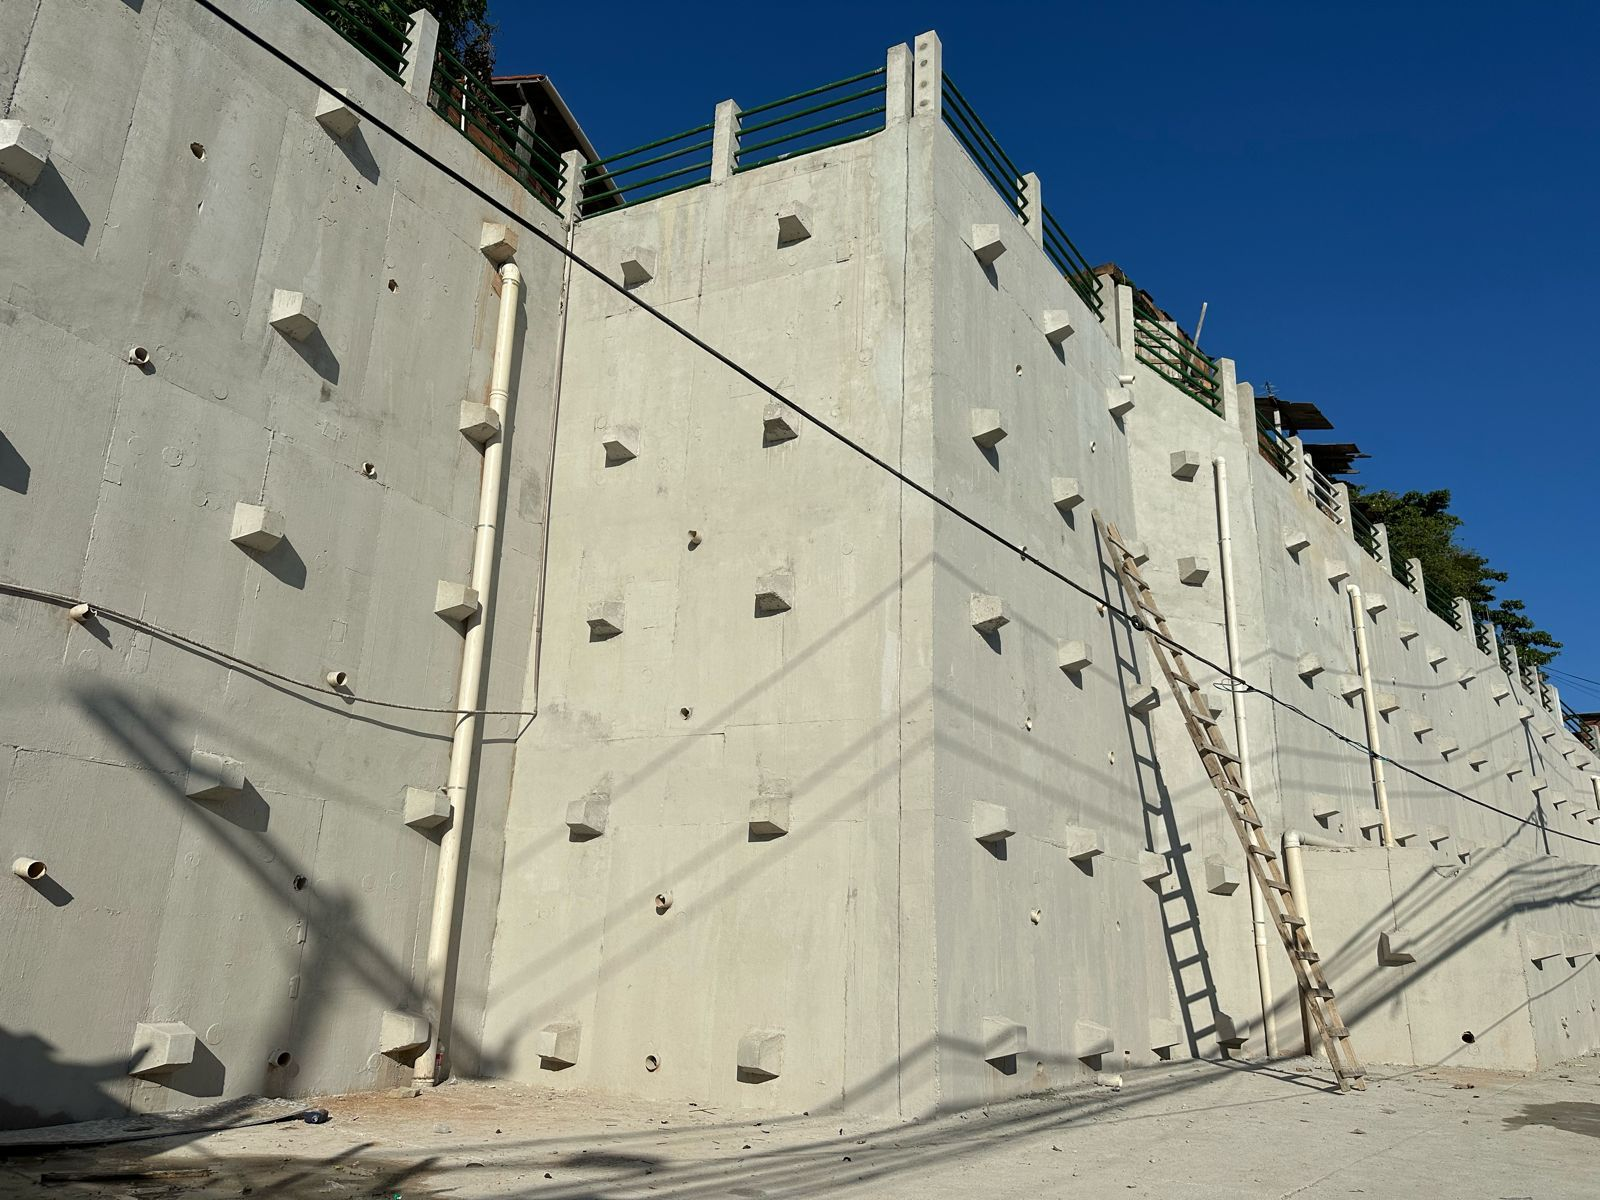
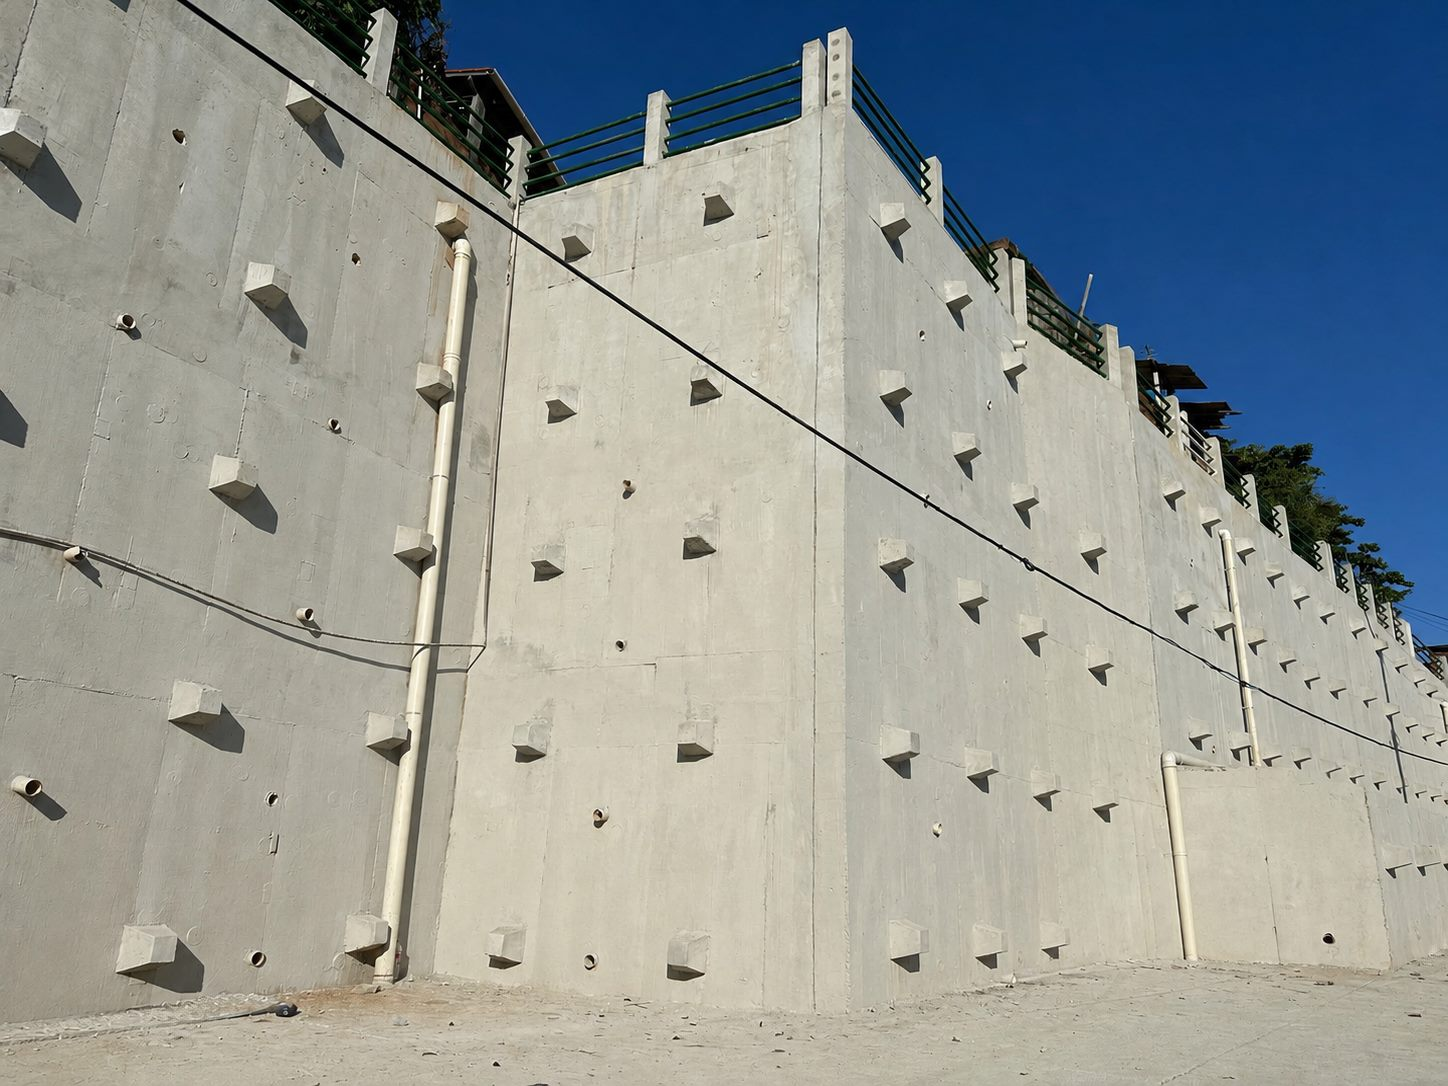
Atualiza imagem de fundo do hero (nova cortina atirantada, JPEG otimizado)
PNG de 2.3MB convertido para JPEG 215KB (1448x1086, q82) para manter o site leve.

diff --git a/assets/styles.css b/assets/styles.css
@@ -63,7 +63,7 @@ h1,h2,h3{color:var(--navy);line-height:1.2;font-weight:800}
      linear-gradient(rgba(15,36,56,.80),rgba(15,36,56,.80)) */
   background:
     linear-gradient(100deg, rgba(15,36,56,.93) 0%, rgba(23,50,79,.82) 42%, rgba(29,64,102,.55) 100%),
-    url('hero-obra.jpg?v=2');
+    url('hero-obra.jpg?v=3');
   background-size:cover;
   background-position:center 38%;
   background-repeat:no-repeat;
@@ -167,7 +167,7 @@ h1,h2,h3{color:var(--navy);line-height:1.2;font-weight:800}
   .hero{
     background:
       linear-gradient(rgba(15,36,56,.90) 0%, rgba(23,50,79,.82) 100%),
-      url('hero-obra.jpg?v=2');
+      url('hero-obra.jpg?v=3');
     background-size:cover;
     background-position:center;
   }

diff --git a/index.html b/index.html
@@ -6,7 +6,7 @@
 <title>JRC Engenharia e Geotecnia — Soluções em geotecnia e obras de arte</title>
 <meta name="description" content="JRC Engenharia e Geotecnia — contenção de encostas e taludes, cortinas atirantadas, fundações e ancoragens especiais, estaca raiz e obras geotécnicas especiais. Segurança, durabilidade e qualidade.">
 <link rel="icon" href="assets/logo-jrc.png" type="image/png">
-<link rel="stylesheet" href="assets/styles.css?v=8">
+<link rel="stylesheet" href="assets/styles.css?v=9">
 </head>
 <body>
 
